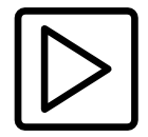
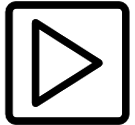
px til %
knapper på betjeningspanel

diff --git a/css/stoledans.css b/css/stoledans.css
@@ -214,8 +214,8 @@ input.close-btn-48:before {
 }
 
 .button {
-    width: 50px;
-    margin-top: 5px;
+    width: 18%;
+    padding: 2%;
     
     
 }
